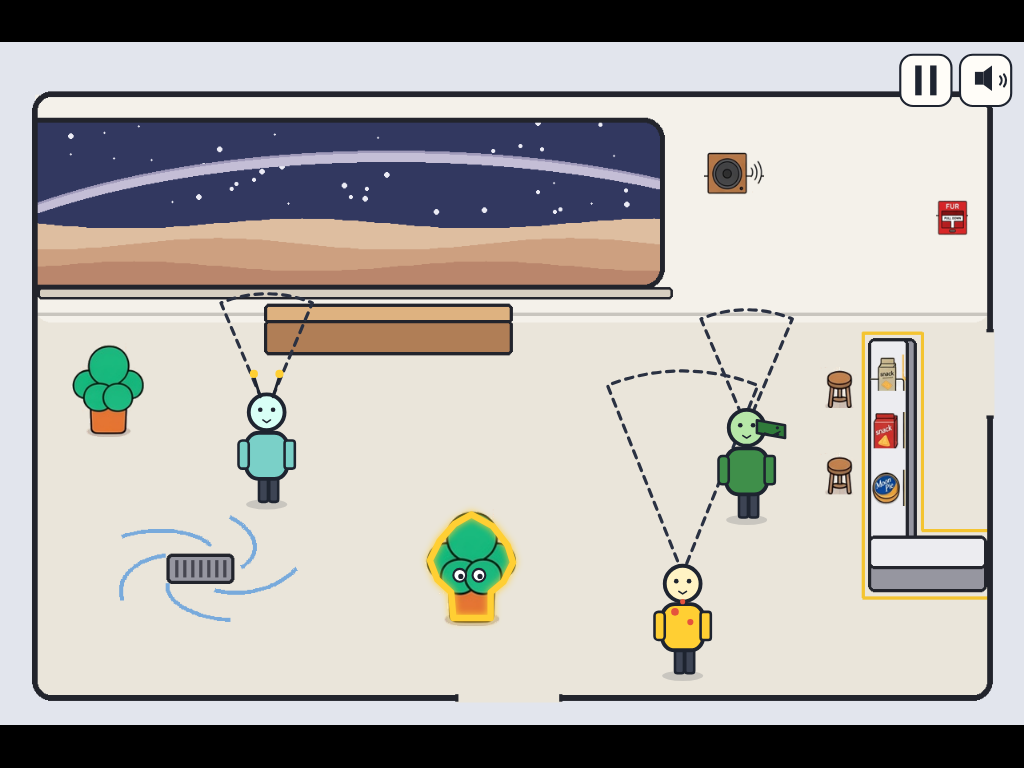
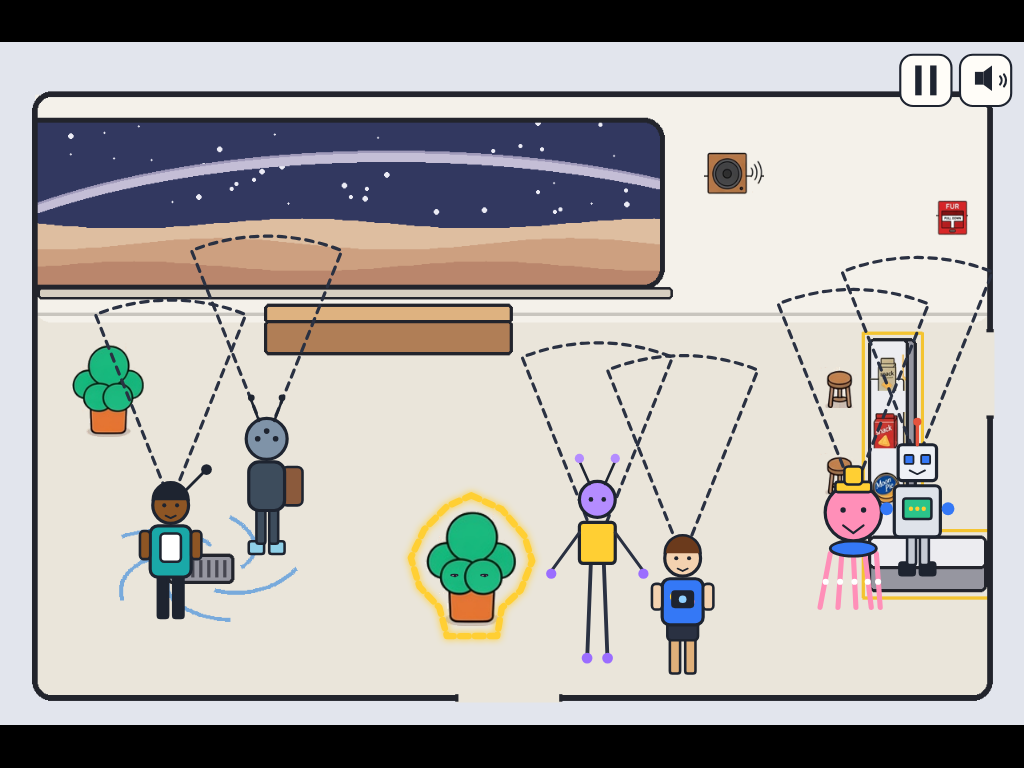
fix: dash the bush outline, scale the peek eyes, and use the six guests
The bush hint is a dashed yellow line just outside the leaves and the pot. Hidden eyes use the original drawing, smaller, one in each front leaf. Hearts rise from Mops and exclamation marks rise from the guests. The six Nov 8 guests replace the later code-drawn set.

diff --git a/prototypes/space-snack-quest/index.html b/prototypes/space-snack-quest/index.html
@@ -135,7 +135,7 @@ function blip() { if (!audio) return; toneAt(520, audio.ac.currentTime, 0.06, 's
 const rooms = {};
 function loadRoom(id, file) {
   const img = new Image();
-  img.src = 'assets/rooms/' + file;
+  img.src = 'assets/approved/' + file;
   rooms[id] = img;
 }
 loadRoom('home', 'home-room-empty-closed-v5.png');
@@ -164,15 +164,28 @@ const PLANTER = [
   [442, 443], [462, 454], [476, 472], [481, 488], [472, 506], [460, 516],
   [460, 540], [425, 540], [423, 516], [410, 504], [403, 486], [412, 468], [426, 452],
 ];
-const LEAF = { x: 424, y: 498, w: 48, h: 16 };
-// Peeking from the front leaves. y=510 sat on the pot rim (the white circles reach 6px below this point).
-const EYES = [{ x: 431, y: 500 }, { x: 449, y: 500 }];
+const LEAF = { x: 416, y: 492, w: 52, h: 20 };
+// One scaled ga() eye in each front clump. y=500 is in the leaves, above the pot rim.
+const EYES = [{ x: 426, y: 500 }, { x: 454, y: 500 }];
+const BUSH_GAP = 18;
+const GUESTS = ['teal', 'camera', 'backpack', 'stilt', 'octopus', 'robot'];
+const GUEST_SCALE = 1.2;
 const POT = { x: 442, y: 526 };
 const DOOR = { x: 300, y: 590 };
 const WATCH_FEET = { x: 640, y: 592 };
 function watchEyes() {
-  return { x: WATCH_FEET.x, y: WATCH_FEET.y - 78 * tune.guest_scale };
+  return { x: WATCH_FEET.x, y: WATCH_FEET.y - 90 * GUEST_SCALE };
 }
+function outsideBush(points, gap) {
+  let cx = 0, cy = 0;
+  for (const p of points) { cx += p[0]; cy += p[1]; }
+  cx /= points.length; cy /= points.length;
+  return points.map(([x, y]) => {
+    const dx = x - cx, dy = y - cy, d = Math.hypot(dx, dy) || 1;
+    return [+(x + (dx / d) * gap).toFixed(2), +(y + (dy / d) * gap).toFixed(2)];
+  });
+}
+const BUSH_OUTLINE = outsideBush(PLANTER, BUSH_GAP);
 
 // ---- Cast ------------------------------------------------------------------------------
 let scene, state;
@@ -191,8 +204,9 @@ function reset() {
     line: 0, control: false, paused: false,
     restarted: 0, hidden: false, hopT: 0, lookT: 0,
     sq: c.sq, mo: c.mo,
-    words: [], bubbles: [], heads: [], cones: [], controls: [],
+    words: [], bubbles: [], heads: [], cones: [], controls: [], guests: [],
     hint: null, eyes: [], hopTrace: [], mopProp: false, look: 'away',
+    sparks: [], heartAt: -9, bangAt: -9,
   };
 }
 function blocker() {
@@ -352,6 +366,7 @@ function activateKey() {
 }
 
 function tickWorld(dt) {
+  tickSparks(dt);
   if (state.song === 'joe') pumpJoe();
   if (state.paused && (state.beat === 'sneak' || state.beat === 'sing')) return;
   const keys = state.control && (state.beat === 'sneak' || state.beat === 'sing');
@@ -470,8 +485,9 @@ function drawMops(x, y, scale, opt) {
   return head;
 }
 function drawGuest(x, y, scale, kind, face) {
-  ART.alien(ctx, x, y, kind, scale, face, state.t);
-  const head = { x: x - 16 * scale, y: y - 86 * scale, w: 32 * scale, h: 32 * scale, who: kind };
+  ART.guest(ctx, x, y, kind, scale, face, state.t);
+  state.guests.push(kind);
+  const head = { x: x - 18 * scale, y: y - 100 * scale, w: 36 * scale, h: 40 * scale, who: kind };
   state.heads.push(head);
   return head;
 }
@@ -565,23 +581,27 @@ function drawCard(title, sub, lit) {
   if (lit) state.controls.push({ id: 'card', x: box.x, y: box.y, w: box.w, h: box.h, lit: true });
 }
 function drawPlanterHint() {
-  // The old game's goal mark is #ffcf33, 6px wide. That mark was a circle.
-  // This is the same yellow and the same thickness, drawn around the leaves and the pot.
+  // Same yellow and thickness as the old goal mark, dashed, and stepped out past the leaves.
   const pulse = 0.5 + 0.5 * Math.sin(state.t * 2.4);
   ctx.save();
   ctx.beginPath();
-  PLANTER.forEach((p, i) => i ? ctx.lineTo(p[0], p[1]) : ctx.moveTo(p[0], p[1]));
+  BUSH_OUTLINE.forEach((p, i) => i ? ctx.lineTo(p[0], p[1]) : ctx.moveTo(p[0], p[1]));
   ctx.closePath();
   ctx.lineJoin = 'round';
   ctx.lineCap = 'round';
   ctx.shadowColor = '#ffcf33';
-  ctx.shadowBlur = 4 + 10 * pulse;
+  ctx.shadowBlur = 3 + 8 * pulse;
   ctx.lineWidth = 6;
   ctx.strokeStyle = '#ffcf33';
-  ctx.setLineDash([]);
+  ctx.setLineDash([8, 6]);
   ctx.stroke();
   ctx.restore();
-  state.hint = { kind: 'planter', points: PLANTER.map(p => p.slice()), color: '#ffcf33', width: 6 };
+  state.hint = {
+    kind: 'planter',
+    points: BUSH_OUTLINE.map(p => p.slice()),
+    inner: PLANTER.map(p => p.slice()),
+    color: '#ffcf33', width: 6, dashed: true, gap: BUSH_GAP,
+  };
 }
 function drawChip(id, lit) {
   const box = { x: 16, y: 64, w: 210, h: 72 };
@@ -623,14 +643,34 @@ function drawIconButtons() {
   if (pulse) return;
 }
 function drawEyes() {
-  // Same eye drawing as the live game (ga). The circles are 6px across, so the
-  // center sits a little above the pot rim and the eyes peek from the front leaves.
-  ART.eyes(ctx, 440, 500, state.t);
-  state.eyes = EYES.map(p => ({ x: p.x, y: p.y }));
+  const k = ART.eyeScale;
+  for (const p of EYES) ART.eyes(ctx, p.x, p.y, state.t, k);
+  state.eyes = EYES.map(p => ({ x: p.x, y: p.y, r: 6 * k, pupil: { dx: k, dy: k } }));
 }
-function guestFace(kind, look) {
-  if (kind === 'spots') return look.face > 1 ? -1 : look.face < -0.2 ? 1 : -1;
-  return 1;
+function rise(kind, x, y) {
+  const wait = kind === 'heart' ? 2.5 : 2.2;
+  const key = kind === 'heart' ? 'heartAt' : 'bangAt';
+  if (state.t - state[key] < wait) return;
+  state[key] = state.t;
+  state.sparks.push({ x, y, t: kind === 'heart' ? 1.6 : 2.2, kind });
+}
+function tickSparks(dt) {
+  for (const s of state.sparks) { s.y -= 26 * dt; s.t -= dt; }
+  state.sparks = state.sparks.filter(s => s.t > 0);
+}
+function drawSparks() {
+  for (const s of state.sparks) {
+    const bob = s.kind === 'bang' ? Math.sin(s.t * 14) * 4 : 0;
+    ctx.save();
+    ctx.globalAlpha = Math.min(1, s.t * 2);
+    if (s.kind === 'bang') {
+      ctx.beginPath();
+      ctx.ellipse(s.x, s.y + bob, 26, 26, 0, 0, Math.PI * 2);
+      ctx.lineWidth = 4; ctx.strokeStyle = '#ffcf33'; ctx.stroke();
+      say('!', s.x, s.y + bob, 40, '#e5533d', 'center', 900);
+    } else say('♥', s.x, s.y, 26, '#e5533d', 'center', 900);
+    ctx.restore();
+  }
 }
 function drawPeople() {
   if (state.room === 'home') {
@@ -644,7 +684,9 @@ function drawPeople() {
       const aim = f < 0 ? Math.PI : 0;
       const ox = faceBox.x + faceBox.w / 2 + Math.cos(aim) * (faceBox.w / 2 + 10);
       const oy = faceBox.y + faceBox.h * 0.42;
-      drawCone(ox, oy, aim, tune.cone_half, tune.cone_len, false);
+      const hot = inCone(state.sq.x, state.sq.y - 16, ox, oy, aim, tune.cone_half, tune.cone_len);
+      drawCone(ox, oy, aim, tune.cone_half, tune.cone_len, hot);
+      if (hot) rise('heart', state.mo.x, hy - 10);
     }
     const sqHead = drawSquatch(state.sq.x, state.sq.y, sqScale, { face: state.sq.face, walk: state.sq.moving ? state.sq.walk : 0, sing: state.sq.sing });
     if (!state.mo.hidden) {
@@ -659,16 +701,18 @@ function drawPeople() {
   state.watchEyes = eyes;
   const watchHot = !state.hidden && look.mode === 'look' && inCone(state.sq.x, state.sq.y - 16, eyes.x, eyes.y, look.face, tune.cone_half, tune.cone_len);
   drawCone(eyes.x, eyes.y, look.face, tune.cone_half, tune.cone_len, watchHot);
-  // Two more people, both looking at the stage. Their cones point up, away from the floor path.
-  [[250, 430, 'antenna'], [700, 445, 'croc']].forEach(([x, y, kind]) => {
-    const ox = x, oy = y - 70 * tune.guest_scale;
+  if (watchHot) rise('bang', eyes.x, eyes.y - 30);
+  // The other five approved guests look at the stage. Same cone size, pointed up.
+  [[160, 540, 'teal'], [250, 480, 'backpack'], [560, 580, 'stilt'], [800, 530, 'octopus'], [860, 500, 'robot']].forEach(([x, y, kind]) => {
+    const ox = x, oy = y - 90 * GUEST_SCALE;
     const face = -Math.PI / 2;
-    const hot = !state.hidden && inCone(state.sq.x, state.sq.y - 16, ox, oy, face, 0.4, 110);
-    drawCone(ox, oy, face, 0.4, 110, hot);
-    drawGuest(x, y, tune.guest_scale, kind, 1);
+    const hot = !state.hidden && inCone(state.sq.x, state.sq.y - 16, ox, oy, face, tune.cone_half, tune.cone_len);
+    drawCone(ox, oy, face, tune.cone_half, tune.cone_len, hot);
+    if (hot) rise('bang', ox, oy - 20);
+    drawGuest(x, y, GUEST_SCALE, kind, 1);
   });
   const watchFace = Math.cos(look.face) < 0 ? -1 : 1;
-  drawGuest(WATCH_FEET.x, WATCH_FEET.y, tune.guest_scale, 'spots', watchFace);
+  drawGuest(WATCH_FEET.x, WATCH_FEET.y, GUEST_SCALE, 'camera', watchFace);
   if (!state.hidden) {
     const hop = state.beat === 'hop' ? Math.sin(Math.min(1, state.hopT / tune.hop_time) * Math.PI) * tune.hop_height : 0;
     drawSquatch(state.sq.x, state.sq.y, tune.hall_sq, { face: state.sq.face, walk: state.sq.moving ? state.sq.walk : 0, hop });
@@ -690,6 +734,7 @@ function drawPlay() {
   drawRoom(state.room === 'hall' ? 'hall' : 'home');
   if (state.beat === 'sneak' || state.beat === 'hop' || state.beat === 'hidden' || state.beat === 'jail') drawPlanterHint();
   drawPeople();
+  drawSparks();
   const line = currentLine();
   if (line && line.kind === 'intro') {
     const g = ctx.createRadialGradient(state.sq.x, state.sq.y - 70, 80, state.sq.x, state.sq.y - 40, 280);
@@ -736,21 +781,21 @@ function drawTitle() {
   state.hint = null;
 }
 
-function drawFigures() {
+function drawLineup() {
   clear('#f4f1ea');
-  drawSquatch(180, 460, 2.6, { face: 1, walk: state.t * 4 });
-  drawMops(400, 470, 2.2, { face: 1, walk: 0 });
-  drawGuest(620, 470, 1.5, 'spots', 1);
-  drawGuest(820, 470, 1.5, 'antenna', 1);
-  say('Squatch', 180, 520, 22, INK, 'center', 700);
-  say('Mops', 400, 520, 22, INK, 'center', 700);
-  say('Watcher', 620, 540, 22, INK, 'center', 700);
-  say('Guest', 820, 540, 22, INK, 'center', 700);
+  const names = ['Teal jacket', 'Camera', 'Backpack', 'Stilts', 'Octopus', 'Robot'];
+  GUESTS.forEach((kind, i) => {
+    const x = 100 + i * 145;
+    drawGuest(x, 430, 1.15, kind, 1);
+    say(names[i], x, 500, 18, INK, 'center', 700);
+  });
+  drawSquatch(80, 200, 1.75, { face: 1 });
+  say('Squatch', 80, 250, 16, INK, 'center', 700);
 }
 
 // ---- Scenes ----------------------------------------------------------------------------
 const scenes = {
-  figures: { update(dt) { state.t += dt; }, draw: drawFigures },
+  lineup: { update(dt) { state.t += dt; }, draw: drawLineup },
   title: {
     update(dt) { state.t += dt; if (pressed('Enter') || pressed('Space')) { beginStory(); scene = 'play'; } },
     draw: drawTitle,
@@ -787,6 +832,7 @@ function drawFrame() {
   state.heads = [];
   state.cones = [];
   state.controls = [];
+  state.guests = [];
   state.hint = null;
   state.eyes = [];
   state.mopProp = false;
@@ -806,7 +852,7 @@ window.game = {
   press(code) { hit.add(code); },
   hold(code, on) { on ? down.add(code) : down.delete(code); },
   get events() { return events; },
-  inCone, PLANTER, LEAF, EYES, POT, DOOR, WATCH_FEET, watchEyes, LINE,
+  inCone, PLANTER, BUSH_OUTLINE, LEAF, EYES, POT, DOOR, WATCH_FEET, watchEyes, LINE, GUESTS,
   roomsReady() {
     return Object.keys(rooms).length > 0 && Object.values(rooms).every(img => img.complete && img.naturalWidth);
   },

diff --git a/prototypes/space-snack-quest/characters.js b/prototypes/space-snack-quest/characters.js
@@ -275,9 +275,114 @@ function drawCh1Alien(ax, ay, kind, sc, face) {
   else (m(-18, -46, 8, 18, 3), r("#e5533d", 2));
   e.restore();
 }
-function ga(l, o) {
+// One peeking eye from ga() in src/game/10-ch1.js at 4d1faa2 (decision C21, Brian t230).
+// White circle, 2px outline, pupil nudged down-right, and the same blink.
+// k scales the whole drawing. 1 is the original size on the original 40px front leaf.
+function ga(l, o, k) {
+  k = k || 1;
   let i = Math.sin(n.T * 2.3) > 0.94 ? 0.25 : 1;
-  for (let s of [-9, 9]) (X(l + s, o, 6, 6 * i), r("#ffffff", 2), F(l + s + 1, o + 1, 2.4, y));
+  X(l, o, 6 * k, 6 * k * i);
+  r("#ffffff", 2 * k);
+  F(l + k, o + k, 2.4 * k, y);
+}
+// The Nov 8 guests (C12). The sprite files were not in the repo, so these are drawn
+// from Brian's description of that set. Not the later eight code-drawn guests.
+function drawApprovedGuest(ax, ay, kind, sc, face) {
+  const f = face < 0 ? -1 : 1;
+  e.save();
+  e.translate(ax, ay);
+  e.scale((sc || 1) * f, sc || 1);
+  if (kind === "teal") drawTeal();
+  else if (kind === "camera") drawCameraGuest();
+  else if (kind === "backpack") drawBackpack();
+  else if (kind === "stilt") drawStilt();
+  else if (kind === "octopus") drawOctopusGuest();
+  else if (kind === "robot") drawRobotGuest();
+  e.restore();
+}
+function drawTeal() {
+  m(-10, -36, 8, 36, 2); r("#1e2430", 2);
+  m(2, -36, 8, 36, 2); r("#1e2430", 2);
+  m(-16, -72, 32, 40, 6); r("#1aa8a8", 2.5);
+  m(-8, -66, 16, 22, 3); r("#ffffff", 2);
+  m(-24, -68, 8, 22, 3); r("#8d5524", 2);
+  m(16, -68, 8, 22, 3); r("#8d5524", 2);
+  L(0, -88, 14); r("#8d5524", 2.5);
+  e.beginPath(); e.arc(0, -92, 14, Math.PI, 0); r("#1e2430", 2);
+  F(-5, -88, 1.6, y); F(5, -88, 1.6, y);
+  C([-4, -80, 0, -78, 4, -80], y, 1.4);
+  C([12, -100, 26, -114], y, 2.2);
+  F(28, -116, 4.2, y);
+}
+function drawCameraGuest() {
+  m(-10, -30, 8, 30, 2); r("#e0b07a", 2);
+  m(2, -30, 8, 30, 2); r("#e0b07a", 2);
+  m(-12, -42, 24, 16, 3); r("#2a3142", 2);
+  m(-16, -74, 32, 36, 6); r("#3478f6", 2.5);
+  F(-6, -60, 4, "#ffcf33"); F(6, -56, 3.4, "#ff8fb8");
+  m(-8, -64, 16, 12, 2); r("#1e2430", 2);
+  F(0, -58, 3, "#8fd0ff");
+  m(-24, -70, 8, 20, 3); r("#f3d2b0", 2);
+  m(16, -70, 8, 20, 3); r("#f3d2b0", 2);
+  L(0, -90, 14); r("#f3d2b0", 2.5);
+  e.beginPath(); e.arc(0, -94, 14, Math.PI, 0); r("#6b3a1c", 2);
+  F(-5, -90, 1.6, y); F(5, -90, 1.6, y);
+  C([-4, -82, 0, -80, 4, -82], y, 1.3);
+}
+function drawBackpack() {
+  m(-14, -10, 12, 10, 2); r("#8fd0e8", 2);
+  m(2, -10, 12, 10, 2); r("#8fd0e8", 2);
+  m(-8, -38, 7, 30, 2); r("#3d4c5c", 2);
+  m(2, -38, 7, 30, 2); r("#3d4c5c", 2);
+  m(12, -68, 16, 30, 4); r("#8b5a3c", 2);
+  m(-14, -72, 28, 38, 8); r("#3d4c5c", 2.5);
+  L(0, -90, 16); r("#7f93a8", 2.5);
+  F(-7, -90, 2.2, y); F(0, -96, 2.2, y); F(7, -90, 2.2, y);
+  C([-6, -104, -12, -120], y, 2);
+  C([6, -104, 12, -120], y, 2);
+  F(-12, -122, 2.6, y); F(12, -122, 2.6, y);
+}
+function drawStilt() {
+  C([-5, -78, -8, 0], "#2a3142", 3);
+  C([5, -78, 8, 0], "#2a3142", 3);
+  F(-8, -2, 4.2, "#9b6dff"); F(8, -2, 4.2, "#9b6dff");
+  m(-14, -108, 28, 32, 3); r("#ffcf33", 2.5);
+  C([-14, -100, -36, -70], "#2a3142", 2.4);
+  C([14, -100, 36, -70], "#2a3142", 2.4);
+  F(-36, -68, 4, "#9b6dff"); F(36, -68, 4, "#9b6dff");
+  L(0, -126, 14); r("#b48cff", 2.5);
+  F(-5, -126, 1.8, y); F(5, -126, 1.8, y);
+  C([-6, -138, -14, -156], y, 2);
+  C([6, -138, 14, -156], y, 2);
+  F(-14, -158, 3.6, "#b48cff"); F(14, -158, 3.6, "#b48cff");
+}
+function drawOctopusGuest() {
+  [[-18, -8], [-9, -3], [0, 2], [9, 5], [18, 3]].forEach(([x, lean]) => {
+    C([x, -42, x + lean, 0], "#ff8fb8", 4);
+    F(x + lean * 0.45, -20, 2.4, "#ffffff");
+  });
+  e.beginPath(); e.ellipse(0, -46, 18, 6, 0, 0, 7); r("#3478f6", 2.2);
+  L(0, -74, 22); r("#ff8fb8", 2.5);
+  F(-8, -76, 2.1, y); F(8, -76, 2.1, y);
+  C([-8, -64, 0, -58, 8, -64], y, 1.6);
+  m(-14, -98, 28, 8, 2); r("#ffcf33", 2);
+  m(-7, -110, 14, 14, 3); r("#ffcf33", 2);
+}
+function drawRobotGuest() {
+  m(-14, -10, 12, 10, 2); r("#1e2430", 2);
+  m(2, -10, 12, 10, 2); r("#1e2430", 2);
+  m(-8, -32, 7, 24, 2); r("#c5cad3", 2);
+  m(2, -32, 7, 24, 2); r("#c5cad3", 2);
+  m(-18, -70, 36, 40, 4); r("#dfe3ea", 2.5);
+  m(-11, -60, 22, 16, 2); r("#2bc48a", 2);
+  F(-5, -52, 1.7, "#ffcf33"); F(0, -52, 1.7, "#ffcf33"); F(5, -52, 1.7, "#ffcf33");
+  F(-24, -52, 5, "#3478f6"); F(24, -52, 5, "#3478f6");
+  m(-15, -102, 30, 28, 3); r("#eef1f6", 2.5);
+  m(-10, -94, 7, 7, 1); r("#3478f6", 1.4);
+  m(3, -94, 7, 7, 1); r("#3478f6", 1.4);
+  C([-6, -82, 0, -79, 6, -82], y, 1.4);
+  C([0, -102, 0, -118], "#e5533d", 2.6);
+  F(0, -120, 3.2, "#e5533d");
 }
 
   window.ART = {
@@ -289,13 +394,16 @@ function ga(l, o) {
       use(ctx, opt.t);
       Fe(x, yy, scale, { f: opt.f, walk: opt.walk, sway: opt.sway, mouth: opt.mouth, eyes: opt.eyes, headDown: opt.headDown });
     },
-    alien(ctx, x, yy, kind, scale, face, time) {
+    guest(ctx, x, yy, kind, scale, face, time) {
       use(ctx, time);
-      drawCh1Alien(x, yy, kind, scale, face);
+      drawApprovedGuest(x, yy, kind, scale, face);
     },
-    eyes(ctx, x, yy, time) {
+    eyes(ctx, x, yy, time, scale) {
       use(ctx, time);
-      ga(x, yy);
+      ga(x, yy, scale);
     },
+    // Original front leaf is a 40px clump. This locked bush's front clumps are about 22px.
+    eyeScale: 22 / 40,
+    guests: ["teal", "camera", "backpack", "stilt", "octopus", "robot"],
   };
 })();
